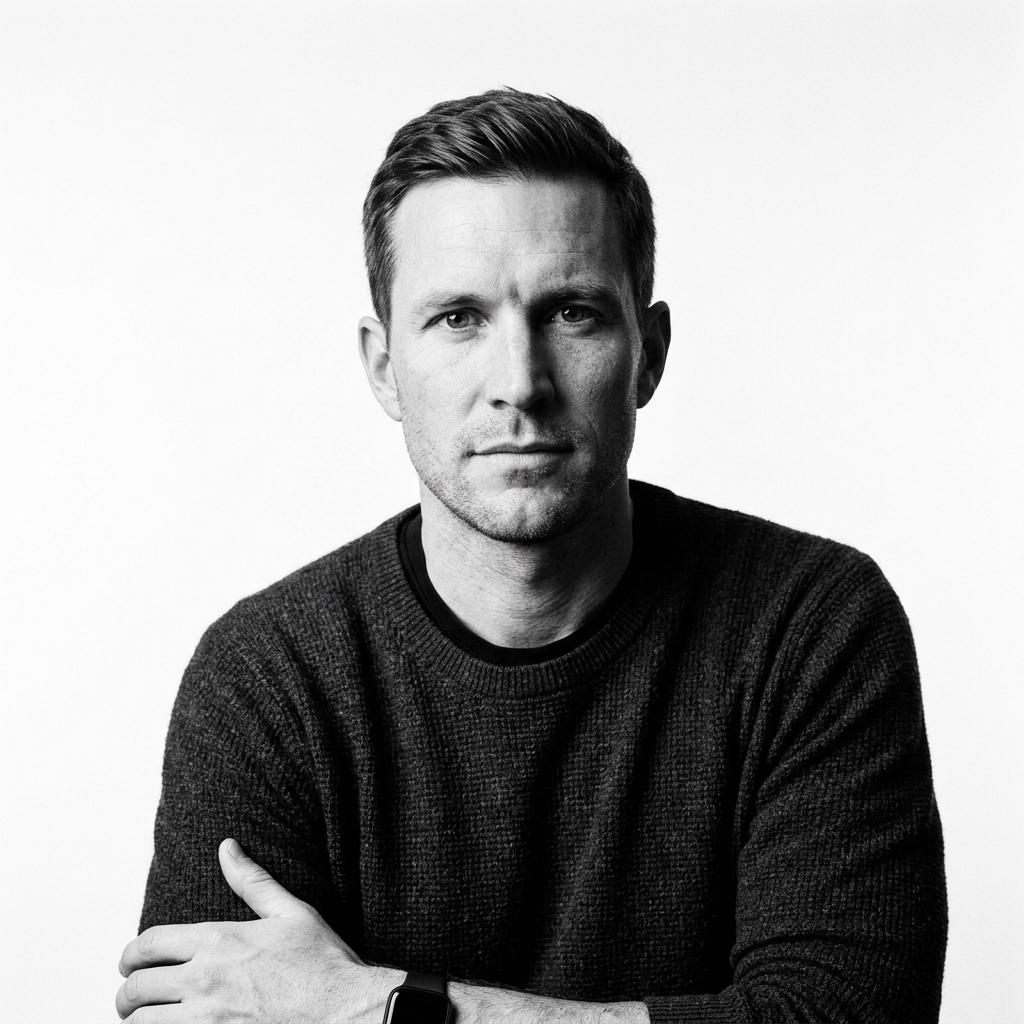
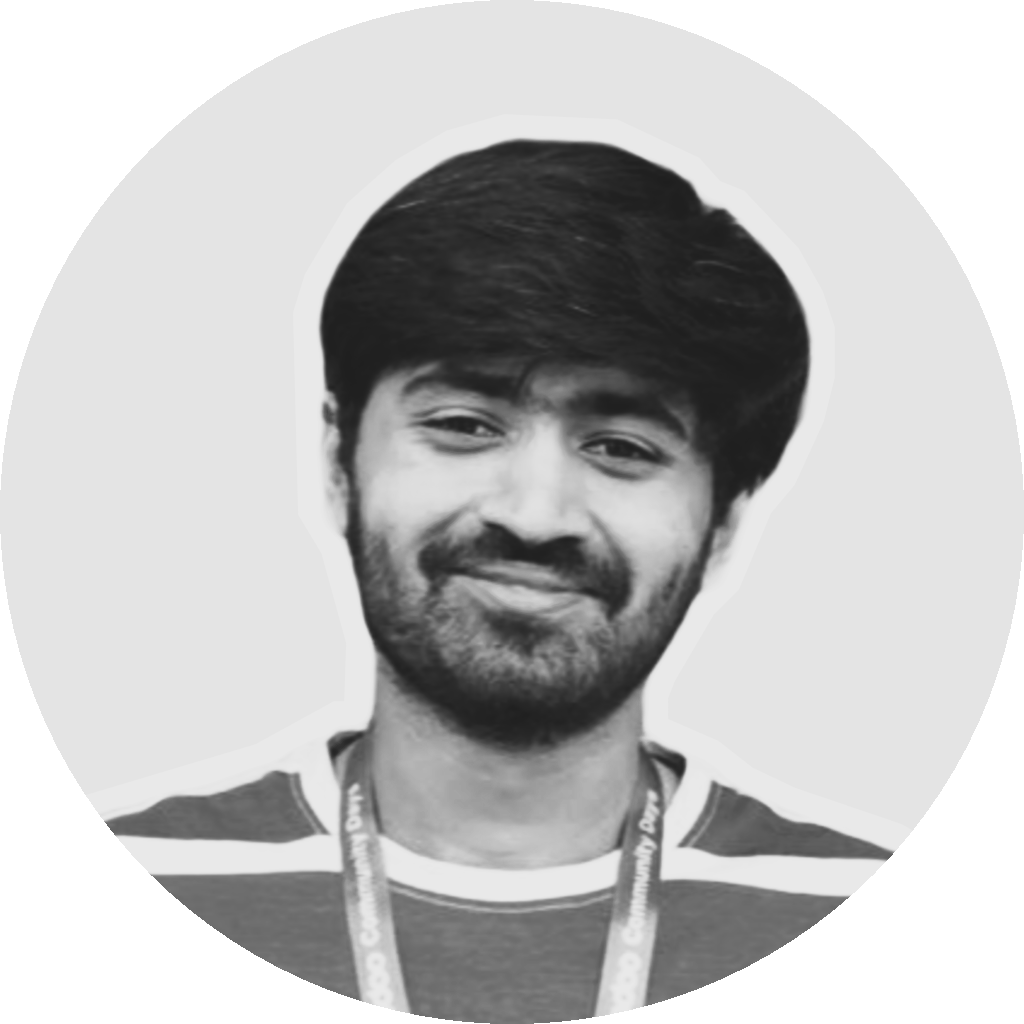
Initial website upload

diff --git a/src/components/Navbar.tsx b/src/components/Navbar.tsx
@@ -5,6 +5,7 @@ import BrutalistButton from './BrutalistButton';
 export default function Navbar() {
   const [searchOpen, setSearchOpen] = useState(false);
   const [searchQuery, setSearchQuery] = useState('');
+  const [mobileMenuOpen, setMobileMenuOpen] = useState(false);
 
   const activeLinkClass = "font-ui-label text-ui-label text-primary dark:text-syntax-lime border-b border-primary dark:border-syntax-lime pb-1 hover:text-secondary dark:hover:text-syntax-lime transition-colors duration-150";
   const inactiveLinkClass = "font-ui-label text-ui-label text-on-surface-variant dark:text-on-primary-container hover:text-secondary dark:hover:text-syntax-lime transition-colors duration-150";
@@ -87,8 +88,69 @@ export default function Navbar() {
           >
             Get Started
           </BrutalistButton>
+
+          {/* Mobile Menu Button */}
+          <button
+            onClick={() => setMobileMenuOpen(!mobileMenuOpen)}
+            className="md:hidden material-symbols-outlined text-primary dark:text-on-primary p-1 hover:opacity-80 transition-opacity"
+            aria-label="Toggle menu"
+          >
+            {mobileMenuOpen ? 'close' : 'menu'}
+          </button>
         </div>
       </nav>
+
+      {/* Mobile/Tablet Menu Drawer */}
+      {mobileMenuOpen && (
+        <div className="md:hidden border-t border-primary dark:border-outline bg-background dark:bg-primary px-grid-margin py-stack-md flex flex-col gap-stack-md transition-all duration-200">
+          <NavLink
+            to="/services"
+            onClick={() => setMobileMenuOpen(false)}
+            className={({ isActive }) => isActive ? activeLinkClass + " w-fit" : inactiveLinkClass + " w-fit"}
+          >
+            Services
+          </NavLink>
+          <NavLink
+            to="/products"
+            onClick={() => setMobileMenuOpen(false)}
+            className={({ isActive }) => isActive ? activeLinkClass + " w-fit" : inactiveLinkClass + " w-fit"}
+          >
+            Products
+          </NavLink>
+          <NavLink
+            to="/testimonials"
+            onClick={() => setMobileMenuOpen(false)}
+            className={({ isActive }) => isActive ? activeLinkClass + " w-fit" : inactiveLinkClass + " w-fit"}
+          >
+            Case Studies
+          </NavLink>
+          <NavLink
+            to="/about"
+            onClick={() => setMobileMenuOpen(false)}
+            className={({ isActive }) => isActive ? activeLinkClass + " w-fit" : inactiveLinkClass + " w-fit"}
+          >
+            About
+          </NavLink>
+          <NavLink
+            to="/contact"
+            onClick={() => setMobileMenuOpen(false)}
+            className={({ isActive }) => isActive ? activeLinkClass + " w-fit" : inactiveLinkClass + " w-fit"}
+          >
+            Contact
+          </NavLink>
+          <div className="pt-2 border-t border-primary/20 dark:border-outline/20">
+            <BrutalistButton
+              to="/contact"
+              variant="primary"
+              size="sm"
+              onClick={() => setMobileMenuOpen(false)}
+              className="w-full text-center"
+            >
+              Get Started
+            </BrutalistButton>
+          </div>
+        </div>
+      )}
     </header>
   );
 }

diff --git a/src/pages/Home.tsx b/src/pages/Home.tsx
@@ -13,20 +13,20 @@ export default function Home() {
       {/* Hero Section */}
       <section className="max-w-[1440px] mx-auto px-grid-margin py-section-padding border-b border-primary">
         <div className="grid grid-cols-1 md:grid-cols-12 gap-stack-lg items-center">
-          <div className="md:col-span-8 space-y-stack-md text-left">
-            <span className="font-code-sm text-code-sm bg-syntax-lime px-2 py-1 border border-primary uppercase tracking-widest text-primary font-bold">
+          <div className="md:col-span-8 flex flex-col items-start text-left">
+            <span className="inline-block mb-5 font-code-sm text-code-sm bg-syntax-lime px-2 py-1 border border-primary uppercase tracking-widest text-primary font-bold leading-none">
               STATUS: READY
             </span>
-            <h1 className="font-display-lg text-display-lg-mobile md:text-display-lg uppercase leading-none text-primary">
+            <h1 className="font-display-lg text-display-lg-mobile md:text-display-lg uppercase text-primary mt-0 mb-6 leading-[1.15] max-w-[700px]">
               BUILD SECURE DIGITAL INFRASTRUCTURE
             </h1>
-            <div className="font-ui-label text-ui-label text-primary dark:text-syntax-lime font-bold uppercase tracking-wider my-stack-sm">
+            <div className="font-ui-label text-ui-label text-primary dark:text-syntax-lime font-bold uppercase tracking-wider mt-0 mb-5">
               Cybersecurity • Custom ERP • Cloud Engineering
             </div>
-            <p className="font-body-md text-headline-md max-w-2xl text-on-surface-variant">
+            <p className="font-body-md text-headline-md max-w-2xl text-on-surface-variant mt-0 mb-8">
               We design secure software, enterprise ERP systems, and scalable cloud platforms for growing businesses.
             </p>
-            <div className="flex flex-wrap gap-stack-md pt-stack-md">
+            <div className="flex flex-wrap gap-stack-md mt-0">
               <BrutalistButton 
                 to="/contact" 
                 variant="primary"

diff --git a/src/pages/Products.tsx b/src/pages/Products.tsx
@@ -48,8 +48,8 @@ export default function Products() {
 
     <div className="bg-background text-primary font-body-md selection:bg-syntax-lime selection:text-primary">
       {/* Hero Section */}
-      <section className="grid grid-cols-1 md:grid-cols-12 border-b border-primary min-h-[614px] text-left">
-        <div className="md:col-span-7 p-grid-margin flex flex-col justify-center border-r border-primary">
+      <section className="grid grid-cols-1 md:grid-cols-12 border-b border-primary md:min-h-[614px] text-left">
+        <div className="md:col-span-7 p-grid-margin flex flex-col justify-center border-b md:border-b-0 md:border-r border-primary">
           <span className="font-ui-label text-ui-label text-on-surface-variant mb-4 flex items-center gap-2">
             <span className="w-2 h-2 bg-primary"></span> TERMINAL_STATUS: ACTIVE
           </span>
@@ -170,7 +170,7 @@ export default function Products() {
 
       {/* ShipCore Deep Dive */}
       <section id="deepdive" className="grid grid-cols-1 md:grid-cols-12 border-b border-primary text-left">
-        <div className="md:col-span-4 p-grid-margin border-r border-primary bg-surface-container-lowest">
+        <div className="md:col-span-4 p-grid-margin border-b md:border-b-0 md:border-r border-primary bg-surface-container-lowest">
           <h2 className="font-headline-md text-headline-md uppercase mb-stack-md text-primary font-bold">
             ShipCore: <br />Functional Layers
           </h2>
@@ -239,7 +239,7 @@ export default function Products() {
         <h2 className="font-headline-md text-headline-md uppercase mb-stack-lg border-l-4 border-primary pl-4 text-primary font-bold">
           System Features
         </h2>
-        <div className="grid grid-cols-1 md:grid-cols-4 gap-stack-md">
+        <div className="grid grid-cols-1 sm:grid-cols-2 md:grid-cols-4 gap-stack-md">
           <div className="brutalist-border p-6 bg-background hover:translate-y-[-4px] transition-transform">
             <span className="material-symbols-outlined text-primary mb-4">dashboard_customize</span>
             <h4 className="font-ui-label text-ui-label mb-2 text-primary font-bold">Fleet Management</h4>

diff --git a/src/pages/About.tsx b/src/pages/About.tsx
@@ -10,7 +10,7 @@ export default function About() {
     <div className="w-full max-w-[1440px] mx-auto blueprint-pattern border-x border-primary min-h-screen text-left">
       {/* Mission Section */}
       <section className="grid grid-cols-1 md:grid-cols-12 gap-gutter border-b border-primary">
-        <div className="md:col-span-8 p-grid-margin bg-background border-r border-primary">
+        <div className="md:col-span-8 p-grid-margin bg-background border-b md:border-b-0 md:border-r border-primary">
           <div className="mb-stack-lg">
             <span className="font-code-sm text-code-sm uppercase tracking-widest text-on-surface-variant font-bold">
               [ 01_MISSION_STATEMENT ]
@@ -156,7 +156,7 @@ export default function About() {
 
       {/* Story Timeline */}
       <section className="grid grid-cols-1 md:grid-cols-12 border-b border-primary text-left bg-background">
-        <div className="md:col-span-4 p-grid-margin border-r border-primary bg-background sticky top-16 h-fit">
+        <div className="md:col-span-4 p-grid-margin border-b md:border-b-0 md:border-r border-primary bg-background sticky top-16 h-fit">
           <span className="font-code-sm text-code-sm block mb-stack-md text-primary font-bold">[ 03_EVOLUTION_LOG ]</span>
           <h2 className="font-display-lg text-headline-md mb-stack-md text-primary font-bold">THE HACKSTONE STORY</h2>
           <div className="w-full h-[200px] bg-surface-container-highest border border-primary relative overflow-hidden">

diff --git a/src/pages/Services.tsx b/src/pages/Services.tsx
@@ -63,7 +63,7 @@ export default function Services() {
             {/* Cybersecurity */}
             <div 
               onClick={() => console.log('[HACKSTONE_SHELL]: Accessing specs for Cybersecurity...')}
-              className="border-b border-r border-primary p-grid-margin group service-card transition-all cursor-pointer bg-background hover:bg-surface-container"
+              className="border-b md:border-r border-primary p-grid-margin group service-card transition-all cursor-pointer bg-background hover:bg-surface-container"
             >
               <div className="flex justify-between items-start mb-stack-lg">
                 <span className="material-symbols-outlined text-4xl text-primary transition-transform group-hover:scale-110 group-hover:text-syntax-lime">
@@ -103,7 +103,7 @@ export default function Services() {
             {/* ERP Systems */}
             <div 
               onClick={() => console.log('[HACKSTONE_SHELL]: Accessing specs for ERP Systems...')}
-              className="border-b border-r border-primary p-grid-margin group service-card transition-all cursor-pointer bg-background hover:bg-surface-container"
+              className="border-b md:border-r border-primary p-grid-margin group service-card transition-all cursor-pointer bg-background hover:bg-surface-container"
             >
               <div className="flex justify-between items-start mb-stack-lg">
                 <span className="material-symbols-outlined text-4xl text-primary transition-transform group-hover:scale-110 group-hover:text-syntax-lime">

diff --git a/src/pages/Testimonials.tsx b/src/pages/Testimonials.tsx
@@ -104,7 +104,7 @@ export default function Testimonials() {
           </div>
 
           {/* Case Study #02 */}
-          <div className="md:col-span-4 bg-surface-container p-stack-lg flex flex-col justify-between border-l border-primary">
+          <div className="md:col-span-4 bg-surface-container p-stack-lg flex flex-col justify-between border-t md:border-t-0 md:border-l border-primary">
             <div>
               <span className="material-symbols-outlined text-[48px] text-syntax-purple mb-stack-md">format_quote</span>
               <p className="font-body-md text-on-surface mb-stack-lg text-primary italic font-medium">